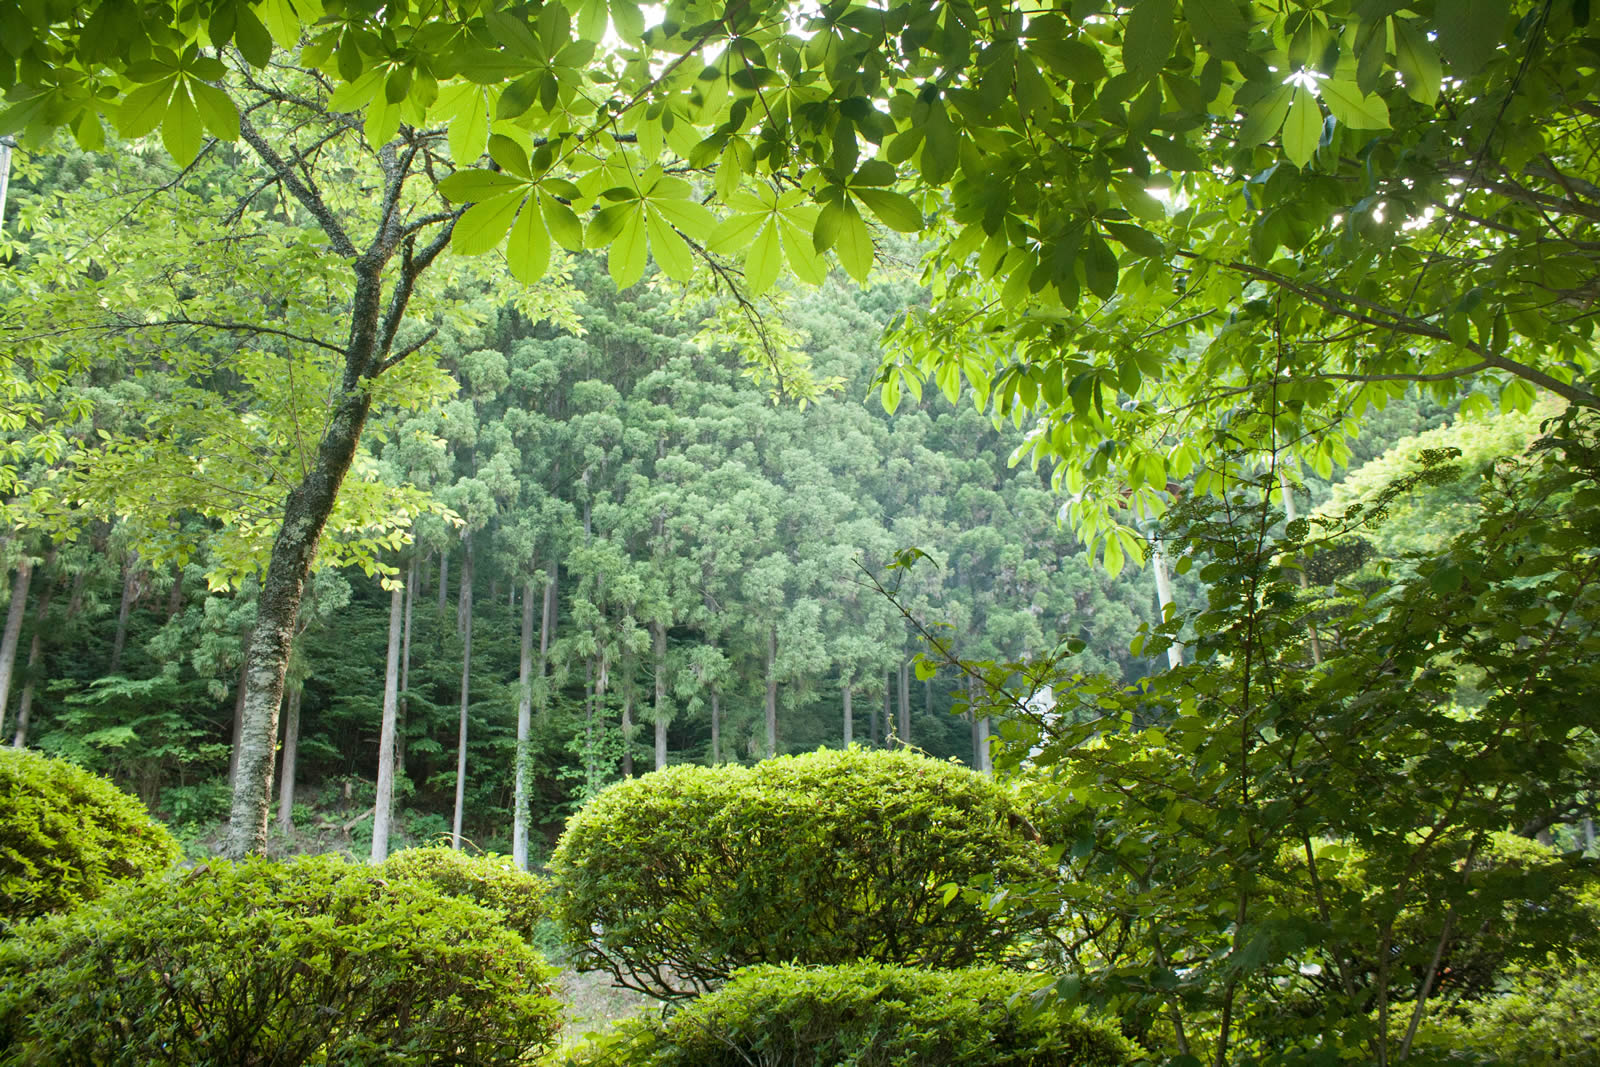
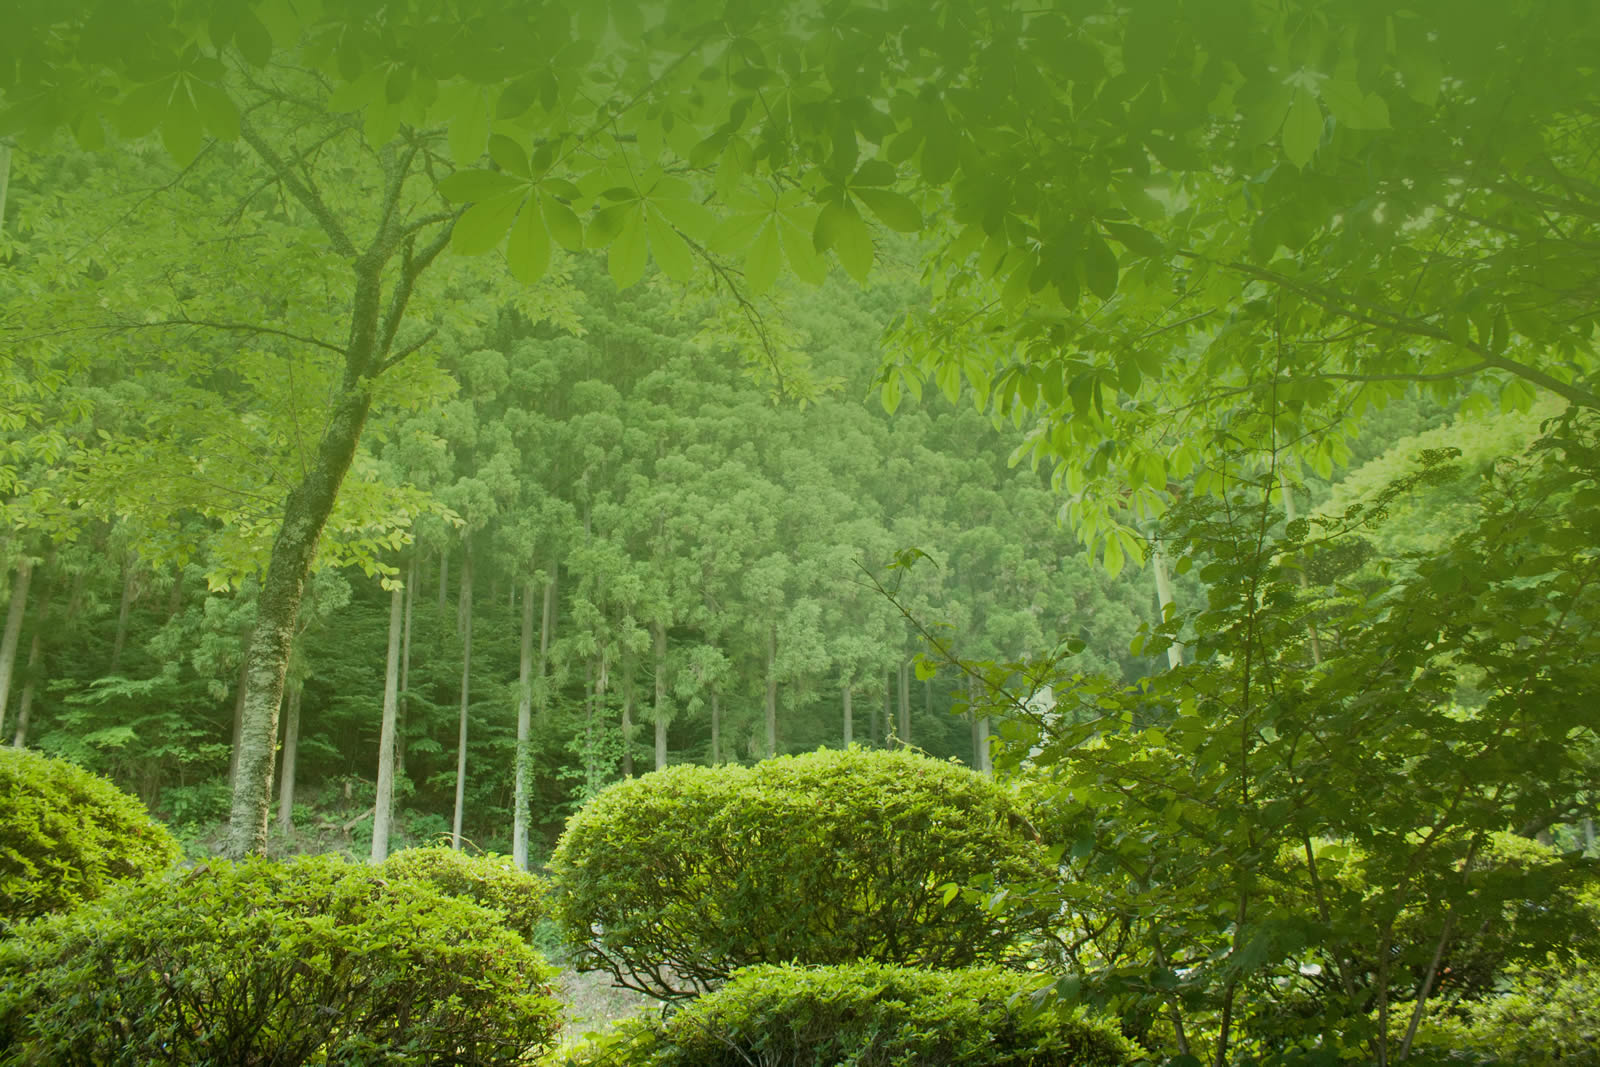
production test

diff --git a/themes/kuaka/layouts/_default/baseof.html b/themes/kuaka/layouts/_default/baseof.html
@@ -7,7 +7,6 @@
     <title>{{ block "title" . }}{{ .Site.Title }} {{ with .Title }} | {{ . }}{{ end }}{{ end }}</title>
     <meta name="HandheldFriendly" content="True">
     <meta name="MobileOptimized" content="320">
-
     <meta name="viewport" content="width=device-width,minimum-scale=1">
     {{ .Hugo.Generator }}
     {{/* NOTE: For Production make sure you add `HUGO_ENV="production"` before your build command */}}
@@ -55,6 +54,7 @@
           }
       };
   </script>
+  {{block "bg" .}}{{ end }}
   </head>
 
   <body class="ma0 {{ $.Param "body_classes"}}{{ with getenv "HUGO_ENV" }} {{ . }}{{ end }}">

diff --git a/themes/kuaka/layouts/partials/site-bg.html b/themes/kuaka/layouts/partials/site-bg.html
@@ -1,0 +1,14 @@
+
+<style>
+  html{
+    {{ if .Params.Bg }}
+    background: #193443 url({{ .Params.Bg }}) no-repeat center center fixed; 
+    {{ else }}
+    background: #193443 url(/kuaka/images/akl.jpg) no-repeat center center fixed; 
+    {{ end }}
+    -webkit-background-size: cover;
+    -moz-background-size: cover;
+    -o-background-size: cover;
+    background-size: cover;
+  }
+</style>

diff --git a/themes/kuaka/src/css/_styles.css b/themes/kuaka/src/css/_styles.css
@@ -7,13 +7,7 @@
 body, html{
   font-family: 'Ubuntu', sans-serif;
 }
-.bgcolour{
-  background:  #193443 url(/kuaka/images/akl.jpg) no-repeat center center fixed; 
-  -webkit-background-size: cover;
-  -moz-background-size: cover;
-  -o-background-size: cover;
-  background-size: cover;
-}
+
 .bgimage{
   position: absolute;
   top: 0; left: 0;

diff --git a/themes/kuaka/layouts/_default/single.html b/themes/kuaka/layouts/_default/single.html
@@ -1,3 +1,6 @@
+{{ define "bg"}}
+  {{ partial "site-bg.html" . }}
+{{ end }}
 {{ define "header" }}{{ partial "site-header.html" . }}{{ end }}
 {{ define "main" }}
   <div class="main-content w-100 w-70-ns center">
@@ -13,5 +16,4 @@
     </article>
     {{ partial "site-contact-info.html" . }}
   </div>
-  
 {{ end }}

diff --git a/themes/kuaka/static/dist/main.css b/themes/kuaka/static/dist/main.css
@@ -5875,11 +5875,6 @@ body, html{
   font-family: 'Ubuntu', sans-serif;
 }
 
-.bgcolour{
-  background:  #193443 url(/kuaka/images/akl.jpg) no-repeat center center fixed;
-  background-size: cover;
-}
-
 .bgimage{
   position: absolute;
   top: 0; left: 0;

diff --git a/themes/kuaka/layouts/page/page-with-form.html b/themes/kuaka/layouts/page/page-with-form.html
@@ -1,3 +1,6 @@
+{{ define "bg"}}
+  {{ partial "site-bg.html" . }}
+{{ end }}
 {{ define "header" }}{{ partial "site-header.html" . }}{{ end }}
 {{ define "main" }}
   <div class="main-content w-100 w-70-ns center">

diff --git a/themes/kuaka/layouts/index.html b/themes/kuaka/layouts/index.html
@@ -1,3 +1,6 @@
+{{ define "bg"}}
+  {{ partial "site-bg.html" . }}
+{{ end }}
 {{ define "main" }}
 <div class="main-content w-100 w-70-ns mw9 center home">
   {{ range where .Data.Pages "Title" "Home" }}

diff --git a/content/pricing.md b/content/pricing.md
@@ -1,7 +1,7 @@
 ---
 title: Pricing
+bg: "/kuaka/images/leafy.jpg"
 date: 2017-11-14 20:01:34 +1300
-weight: 3
 type: page
 menu:
   main:

diff --git a/content/home.md b/content/home.md
@@ -1,5 +1,6 @@
 ---
 title: Home
+bg: "/kuaka/images/leafy.jpg"
 date: 2017-11-14 20:01:34 +1300
 layout: page-with-form
 type: page
